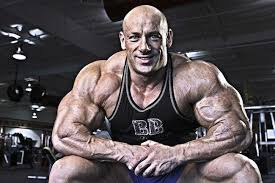
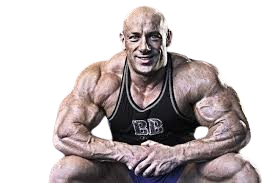
photo update

diff --git a/trenerpersonalny.html b/trenerpersonalny.html
@@ -24,7 +24,7 @@
       <h3>Mariusz  Pudzianowski<P class="nickname">"Pudzian"</P></h3>
       <a href="mariusz.html" class="image-link">
           <div class="image-container">
-              <img src="images/rober.png" alt="pngtrener" class="pngtrener" />
+              <img src="images/pudzian1.png" alt="pngtrener" class="pngtrener" />
               <div class="overlay">
                   <span class="overlay-text">Więcej o mnie</span>
               </div>
@@ -38,7 +38,7 @@
       <h3>Robert Burneika<P class="nickname">"Hardkorowy Koksu"</P> </h3>
       <a href="robert.html" class="image-link">
           <div class="image-container">
-              <img src="images/rober.png" alt="pngtrener" class="pngtrener" />
+              <img src="images/rober1.png" alt="pngtrener" class="pngtrener" />
               <div class="overlay">
                   <span class="overlay-text">Więcej o mnie</span>
               </div>
@@ -51,7 +51,7 @@
       <h3>Michał Owczarzak<P class="nickname">"Owca WK"</P> </h3>
       <a href="owca.html" class="image-link">
           <div class="image-container">
-              <img src="images/rober.png" alt="pngtrener" class="pngtrener" />
+              <img src="images/owca_krul.png" alt="pngtrener" class="pngtrener" />
               <div class="overlay">
                   <span class="overlay-text">Więcej o mnie</span>
               </div>

diff --git a/owca.html b/owca.html
@@ -39,7 +39,7 @@
       <div class="main2">
         
         <div class="main3">
-          <img src="images/owca.png" alt="pngtrener" class="pngtrener" />
+          <img src="images/owca_krzyk.png" alt="pngtrener" class="pngtrener" />
         </div>
         <div class="main3">
           <h3>Trener wszechstronnego rozwoju – Michał "Owca" Owczarzak </h3>

diff --git a/robert.html b/robert.html
@@ -39,7 +39,7 @@
       <div class="main2">
         
         <div class="main3">
-          <img src="images/rober.png" alt="pngtrener" class="pngtrener" />
+          <img src="images/robert_bez.png" alt="pngtrener" class="pngtrener" />
         </div>
         <div class="main3">
           <h3>Trener Kulturystyki – Robert Burneika </h3>

diff --git a/css/trenerpersonalny.css b/css/trenerpersonalny.css
@@ -38,6 +38,8 @@ h3 {
 .image-container {
     position: relative; 
     overflow: hidden; 
+    max-width: 38rem;
+    max-height: 18rem;
 }
 
 .pngtrener {
